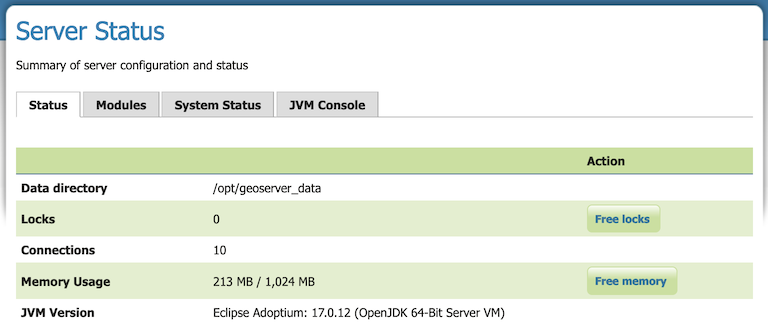
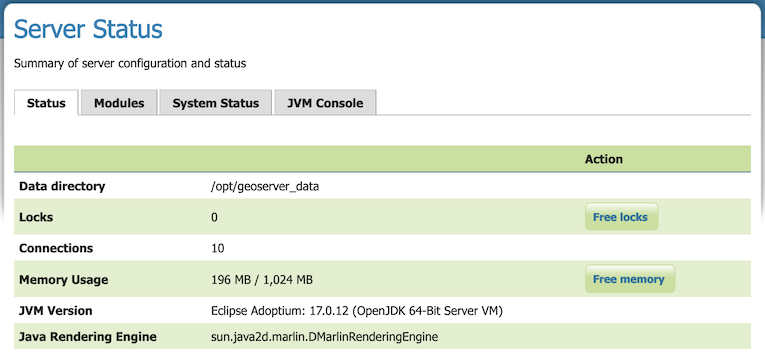
Java 17 is now working for docker

diff --git a/_posts/2024-09-18-geoserver-2-26-0-released.md b/_posts/2024-09-18-geoserver-2-26-0-released.md
@@ -23,7 +23,8 @@ with downloads
 This is a stable release of GeoServer recommended for production use.
 GeoServer 2.26.0 is made in conjunction with GeoTools 32.0, GeoWebCache 1.26.0, ImageIO-EXT 1.4.13, and JAI-EXT 1.1.27.
 
-Thanks to Peter Smythe and Jody Garnett for making this release and everyone who has helped out during this release cycle.
+Thanks to Peter Smythe (AfriGIS) and Jody Garnett (GeoCat) for making this release and everyone who has helped out during this release cycle.
+Special thanks Andrea for helping with release announcement, and Torben for troubleshooting the build server and docker environment for this release.
 
 ## Nightly build testing
 
@@ -45,10 +46,14 @@ See project [security policy](https://github.com/geoserver/geoserver/blob/main/S
 
 ## Java 17 Support
 
-The binary distribution and the Windows installer now work with Java 17 (the war file already did).
-Thanks to Andrea Aime and everyone who worked on testing this in different environments.
+The binary distribution and the Windows installer now work with Java 17.
+
+When using the war distribution with Tomcat and Java 17 double check the **Server status** page.
+If the **Java Rendering Engine** is listed as "Unknown", double check the [Running in Java 17](https://docs.geoserver.org/latest/en/user/production/java.html#running-on-java-17) production considerations.
 
 ![](/img/posts/2.26/java17.png)
+
+Thanks to Andrea Aime and everyone who worked on testing this in different environments.
 
 * [GEOS-11467](https://osgeo-org.atlassian.net/browse/GEOS-11467) Update Marlin, make the bin package compatible with Java 17
 
@@ -61,6 +66,8 @@ To try out GeoServer 2.26.0 with docker:
 docker pull docker.osgeo.org/geoserver:2.26.0 
 docker run -it -p8080:8080 docker.osgeo.org/geoserver:2.26.0 
 ```
+
+Thanks to Nils Bühner (terrestris) and everyone who has contributed to the Docker build.
 
 ## Search improvement
 
